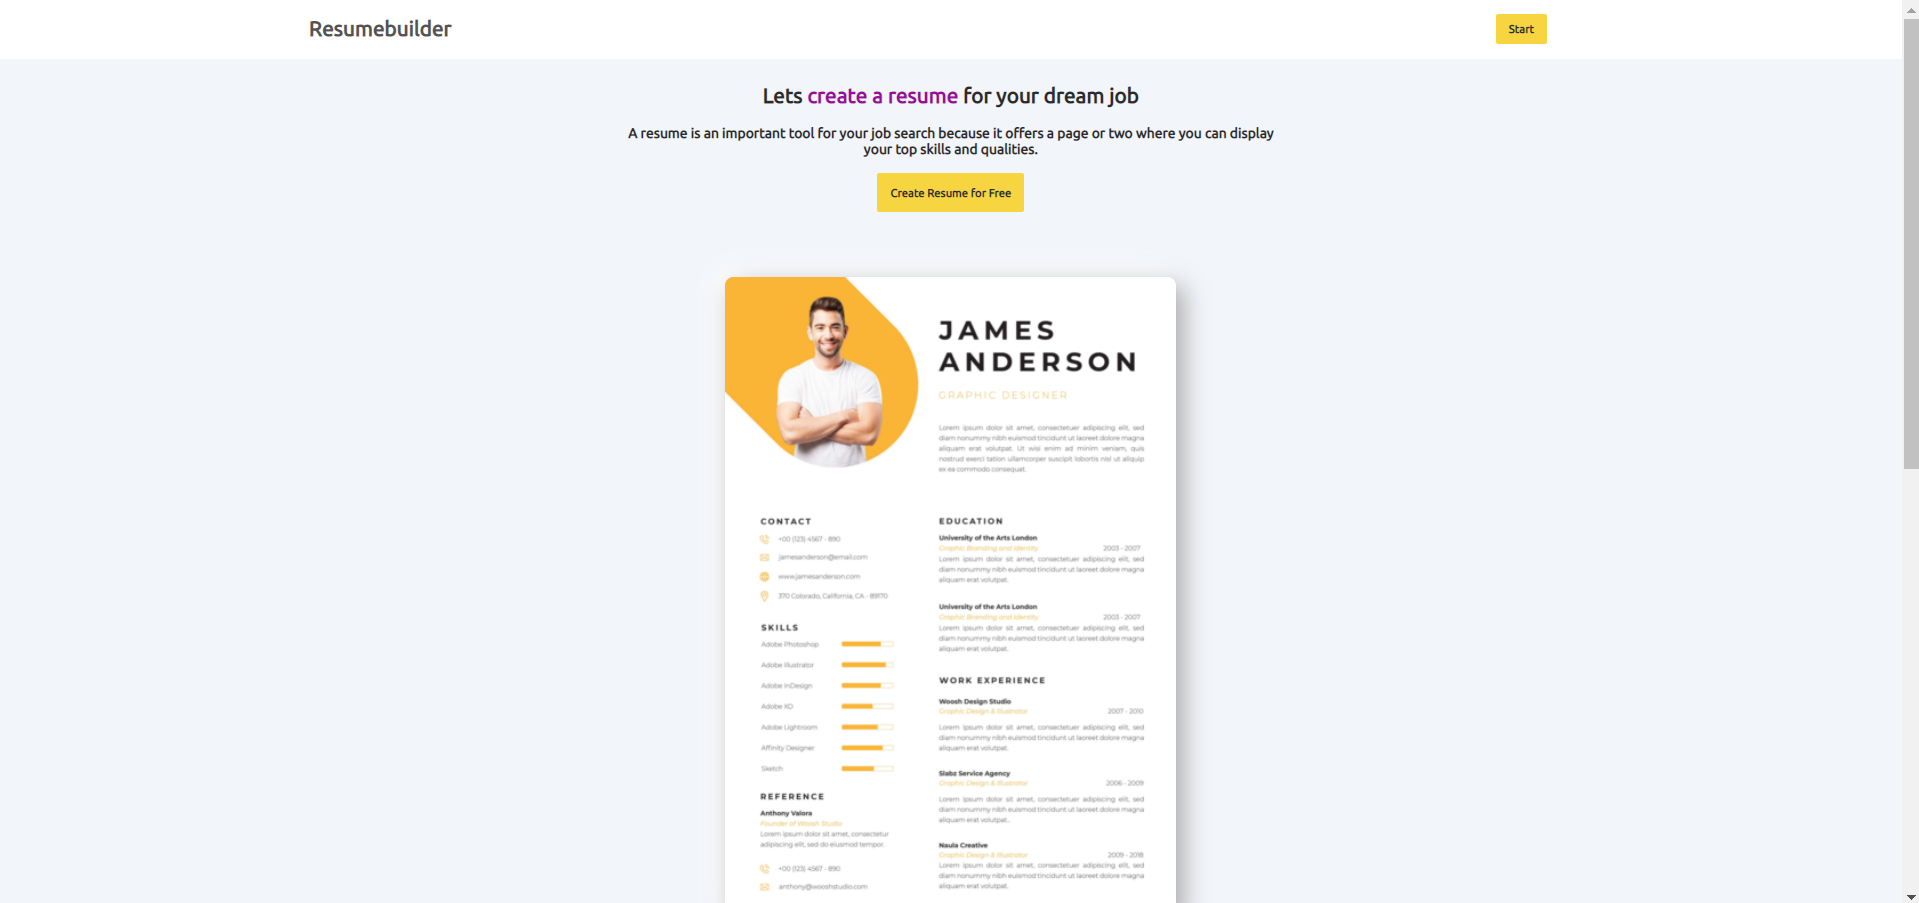
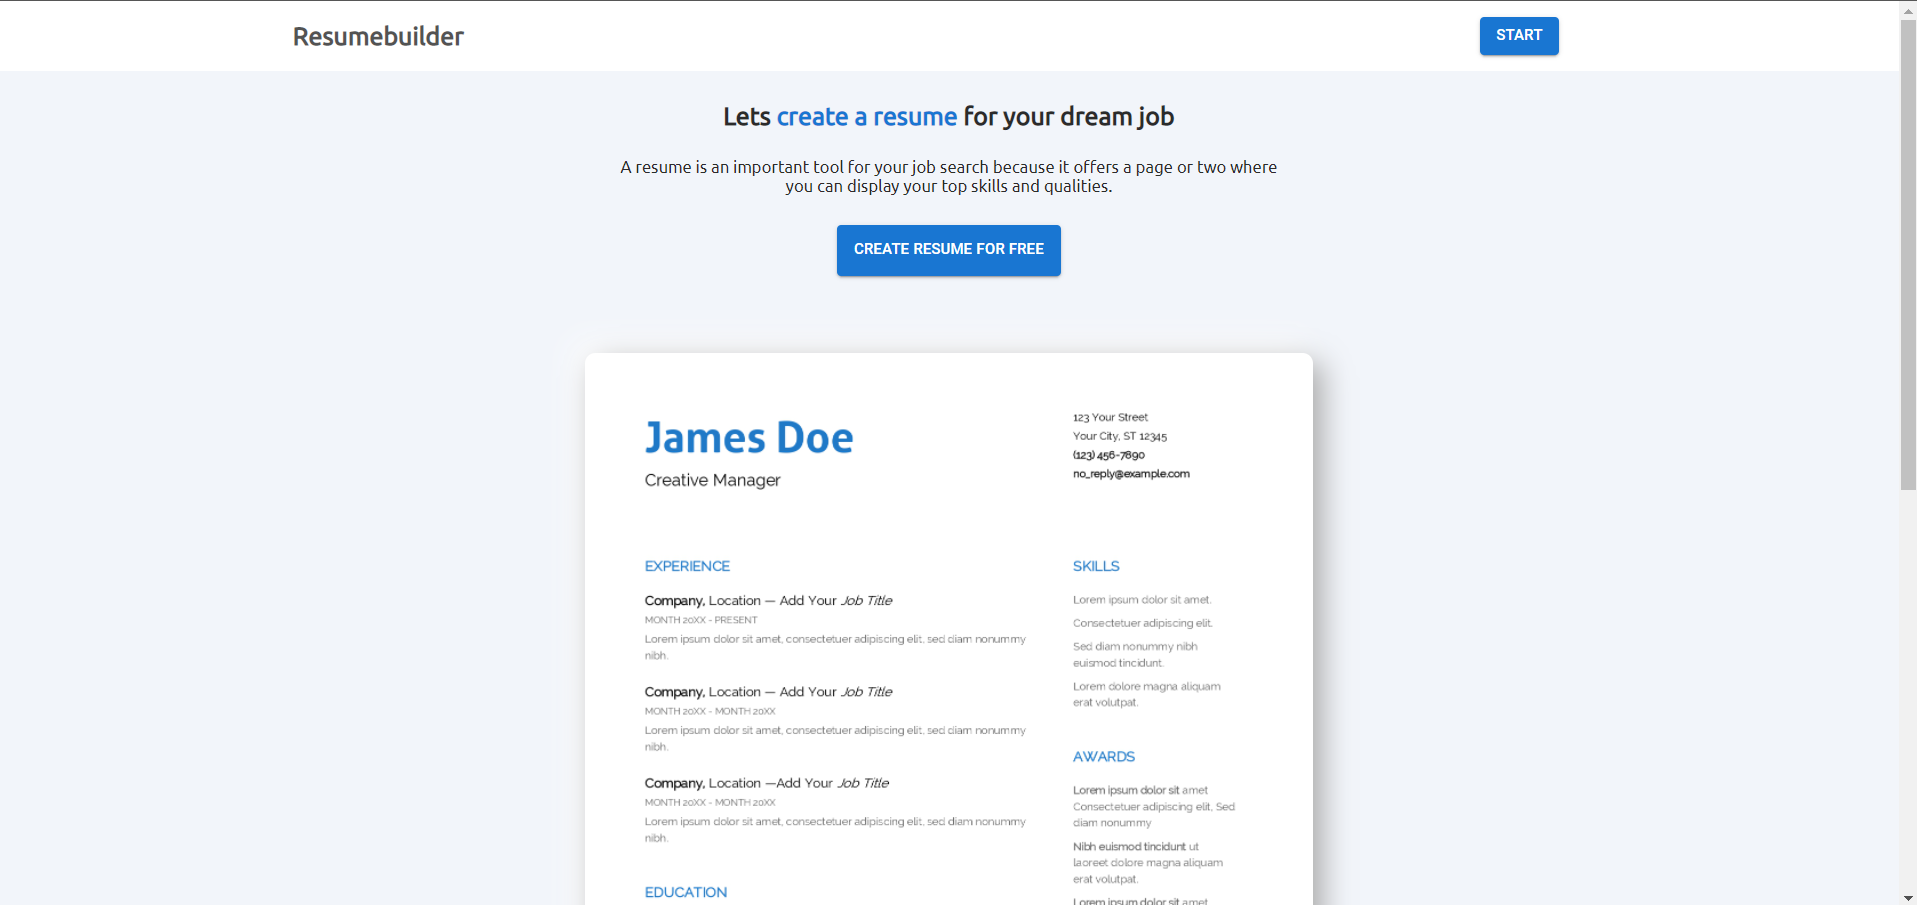
UI TWEAKS

diff --git a/src/components/Previewone.js b/src/components/Previewone.js
@@ -1,7 +1,9 @@
 import React from 'react'
-import previmg from '../images/temp-prev4.jpg'
+import previmg from '../images/res.jpg'
 import '../css/Prevone.css'
-import {Link } from "react-router-dom";
+import Button from '@mui/material/Button';
+
+import { Link } from "react-router-dom";
 
 export default function Previewone() {
     return (
@@ -10,8 +12,9 @@ export default function Previewone() {
                 <h2>Lets <span className='targethd'>create a resume</span> for your dream job</h2>
                 <p>A resume is an important tool for your job search because it offers a page or two where you can display your top skills and qualities.</p>
                 <div className="startbtn1 mb-3" >
-                <Link to="/edit"><button>Create Resume for Free</button></Link>
-            </div>
+                    <Link to="/edit"  style={{textDecoration:'none'}}> <Button style={{height:'49px'}} variant="contained">Create Resume for Free </Button>
+                    </Link>
+                </div>
             </div>
             <img src={previmg} alt="" />
         </div>

diff --git a/src/css/Prevone.css b/src/css/Prevone.css
@@ -7,7 +7,7 @@
     font-family: 'Ubuntu', sans-serif;
 }
 .Previewone img{
-    width: 520px;
+    width: 699px;
     user-select: none;
     cursor: default;
     border-radius: 10px;
@@ -17,14 +17,13 @@ box-shadow:  9px 9px 28px #aaaaaa,
              -9px -9px 28px #ffffff;
 }
 .targethd{
-    color: rgb(156, 11, 156);
+    color: rgb(25,118,210);
 }
 .headerprevone p{
     width: 35%;
     margin:auto;
-    /* font-size: 14px; */
-    margin-bottom: 19px;
-    font-weight: 600;
+    margin-bottom: 29px;
+    margin-top: 25px;
 }
 .headerprevone{
     padding-top: 9px;
@@ -42,18 +41,4 @@ box-shadow:  9px 9px 28px #aaaaaa,
     .Previewone img{
         width:350px;
     }
-}
-.startbtn1 button{
-    cursor: pointer;
-    background-color: rgb(247, 213, 65);
-    border: none;
-    outline: none;
-    height: 45px;
-    width: fit-content;
-    padding: 0 15px;
-    border-radius: 2.5px;
-    font-family: 'Ubuntu', sans-serif;
-    font-size: 13px;
-    font-weight: bold;
-    color:rgb(43, 43, 43) ;
 }

diff --git a/src/css/Navbar.css b/src/css/Navbar.css
@@ -30,33 +30,10 @@
     font-family: 'Ubuntu', sans-serif;
     color:rgb(83, 83, 83) ;
 }
-.startbtn button{
-    cursor: pointer;
-    background-color: rgb(247, 213, 65);
-    border: none;
-    outline: none;
-    height: 35px;
-    width: fit-content;
-    padding: 0 15px;
-    border-radius: 2.5px;
-    font-family: 'Ubuntu', sans-serif;
-    font-size: 13px;
-    font-weight: bold;
-    color:rgb(43, 43, 43) ;
-}
+
 .logo h2{
     font-family: 'Ubuntu', sans-serif;
     color:rgb(83, 83, 83) ;
-}
-@media screen and (max-width:565px){
-    /* .logo h2{
-        font-size: 16px;
-    }
-    .startbtn button{
-        height: 25px;
-        width: 65px;
-        font-size: 12px;
-    } */
 }
 @media screen and (max-width:1111px){
     .tagsnav{

diff --git a/src/components/Navbar.js b/src/components/Navbar.js
@@ -1,6 +1,8 @@
 import React from 'react'
 import '../css/Navbar.css'
 import {Link } from "react-router-dom";
+import Button from '@mui/material/Button';
+
 export default function Navbar() {
     return (
         <div className="navbar">
@@ -11,7 +13,8 @@ export default function Navbar() {
               
             </div>
             <div className="startbtn">
-                <Link to="/edit"><button>Start</button></Link>
+                <Link to="/edit" style={{textDecoration:'none'}}><Button variant="contained">Start</Button></Link>
+                
             </div>
         </div>
     )

diff --git a/src/Pages/Home.js b/src/Pages/Home.js
@@ -1,7 +1,6 @@
 import React from 'react'
 import '../css/Home.css'
 import Previewone from '../components/Previewone'
-import Templates from '../components/Templates'
 import Footer from '../components/Footer'
 import { Middlesec } from '../components/Middlesec'
 export default function Home() {
@@ -9,7 +8,6 @@ export default function Home() {
         <div className='Home'>
             <Previewone></Previewone>
             <Middlesec></Middlesec>
-            <Templates></Templates>
             <Footer></Footer>
         </div>
     )

diff --git a/src/Pages/Edit.js b/src/Pages/Edit.js
@@ -55,7 +55,7 @@ export const Edit = () => {
   return <div className='editpage'>
 <Toaster/>
     <div className="salutations">
-      <p style={{ fontWeight: 'bold' }}>Welcome 👋</p>
+      <p style={{ fontWeight: 'bold',fontSize:'20px' }}>Welcome <span style={{fontSize:'40px'}}> 👋</span></p>
       <h2 style={{ marginBottom: '35px' }}>Start building your new resume</h2>
 
       <Box sx={{ width: '44%', margin: 'auto', marginTop: '19px', marginBottom: '19px', display: 'flex', alignItems: 'left' }}>

diff --git a/src/Pages/Preview.js b/src/Pages/Preview.js
@@ -6,7 +6,7 @@ import { Box } from '@mui/system';
 export default function Preview() {
     function print(){
         document.getElementById('bodyContent').style.position="absolute"
-        document.getElementById('bodyContent').style.top="-5px"
+        document.getElementById('bodyContent').style.top="-15px"
         document.getElementById('tohide').style.display="none"
 
         window.print()

diff --git a/src/components/Middlesec.js b/src/components/Middlesec.js
@@ -2,7 +2,7 @@ import React from 'react'
 import '../css/Middle.css'
 export const Middlesec = () => {
     return (
-        <div className='middlesec'>
+        <div className='middlesec' style={{marginBottom:'39px'}}>
             <h2> Use this resume template to showcase your skills to recruiters</h2>
             <div className="parasofmid">
                 <div className="parasparents">

diff --git a/src/css/Middle.css b/src/css/Middle.css
@@ -16,8 +16,8 @@
     margin-left: 9px;
 }
 .parasparents span{
-    color: rgb(231, 198, 10);
-    font-size: 25px;
+    color: rgb(25,118,210);
+    font-size: 34px;
     font-weight: bolder;
 }
 .middlesec{

diff --git a/src/css/Preview.css b/src/css/Preview.css
@@ -2,6 +2,9 @@
     height: 1290px;
     padding-bottom: 19px;
 }
+.resume{
+             border-radius: 9px;
+}
 .header{
     margin-top: 19px;
     font-size: 19px;
